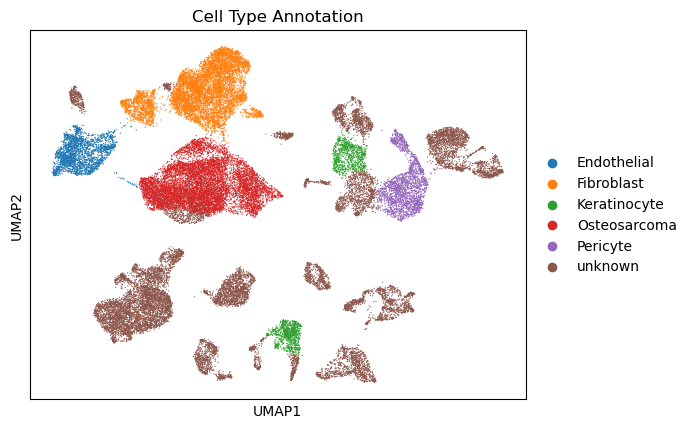
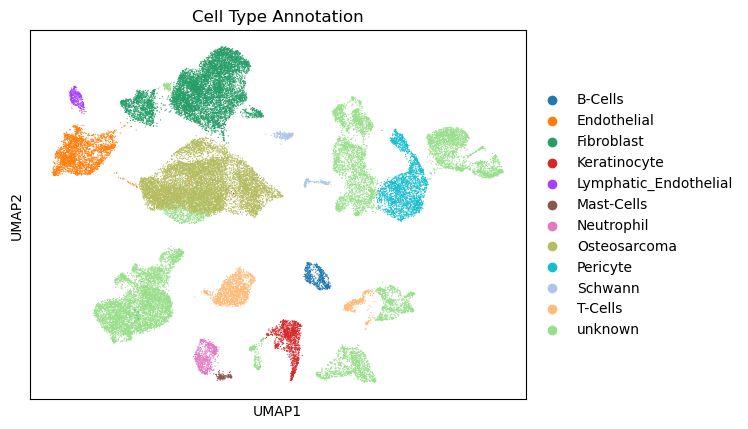
Update preliminary annotations after fixing merge

diff --git a/README.md b/README.md
@@ -182,7 +182,7 @@ marker_genes = {
 
 ### Preliminary Annotations 
 
-![](figures/umap_combined_celltypeON.png?v=4) 
+![](figures/umap_combined_celltypeON.png?v=5) 
 
-![](figures/umap_combined_celltype.png?v=4)
+![](figures/umap_combined_celltype.png?v=5)
 
